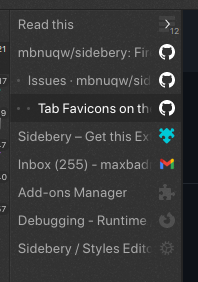
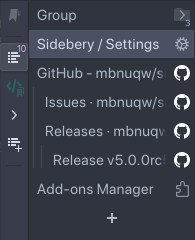
Upd wiki

diff --git a/docs/wiki/Sidebery-Styles-Snippets.md b/docs/wiki/Sidebery-Styles-Snippets.md
@@ -1,7 +1,4 @@
-# 🚧 Work In Progress 🚧
-
-
-# Sidebery's custom css snippets
+## General Info
 
 Styles editor can be found in:  
 `Sidebery settings` > `Styles editor` (in the navigation sidebar)  
@@ -18,8 +15,9 @@ To get currently available css-selectors use debugger:
     - Select "/group/group.html" for group page frame
   - Browse "Inspector" tab
 
+<br>
 
-### Tab Favicons on the Right
+## Tab Favicons on the Right
 
 ![Tabs favicons on the right](./assets/tabs-favs-right.png)
 
@@ -39,8 +37,9 @@ To get currently available css-selectors use debugger:
 }
 ```
 
+<br>
 
-### Tabs multiline titles
+## Tabs multiline titles
 
 ![Tabs multiline titles](./assets/tabs-multiline-titles.png)
 
@@ -50,7 +49,7 @@ To get currently available css-selectors use debugger:
 #root {
   --tabs-height: 36px !important;
   --tabs-title-padding: 8px;
-  --tabs-font-size: 12px;
+  --tabs-font-size: .8rem;
   --tabs-title-lines: 2;
 }
 
@@ -67,8 +66,9 @@ To get currently available css-selectors use debugger:
 }
 ```
 
+<br>
 
-### Vertical panel labels
+## Vertical panel labels
 
 ![Vertical panel labels](./assets/vert-nav-labels.png)
 
@@ -78,60 +78,59 @@ To get currently available css-selectors use debugger:
 
 ```css
 #root {
-  --nav-btn-width: 22px;
-  --name-font-size: 12px;
-  --count-font-size: 10px;
+  --nav-btn-width: 24px;
+  --nav-btn-height: 24px;
+  --name-font-size: .8rem;
+  --count-font-size: .65rem;
 }
 
-.NavigationBar .panel-btn {
+.NavigationBar .main-items .nav-item[data-class="panel"] {
   display: flex;
   flex-direction: column-reverse;
   padding: 6px 0;
   height: auto;
 }
 
-.NavigationBar .panels-box .panel-btn[data-type="add"] {
-  height: var(--nav-btn-width);
+.NavigationBar .main-items .nav-item[data-class="panel"] .badge {
+	top: 1px;
+  left: auto;
+  right: 1px;
 }
 
-.NavigationBar .panels-box .panel-btn:not([data-type="add"]) > svg,
-.NavigationBar .panels-box .panel-btn > img {
-  display: none;
+.NavigationBar .main-items .nav-item[data-class="panel"] .icon,
+.NavigationBar .main-items .nav-item[data-class="panel"] .bookmarks-badge-icon {
+	display: none;
 }
 
-.NavigationBar .panel-btn .update-badge {
-  top: 1px;
-  left: 1px;
+.NavigationBar .main-items .nav-item .bookmarks-badge-icon {
+	top: auto;
+	left: auto;
+	bottom: 3px;
+	right: 1px;
 }
 
-.NavigationBar .panel-btn .ok-badge,
-.NavigationBar .panel-btn .err-badge,
-.NavigationBar .panel-btn .progress-spinner {
-  display: none;
-}
-
-.NavigationBar .panel-btn .len {
+.NavigationBar .main-items .nav-item .len {
   position: relative;
   font-size: var(--count-font-size);
   writing-mode: sideways-lr;
   text-orientation: mixed;
   background-color: transparent;
   padding: 0;
-  margin: 0 2px 0 0;
+  margin: 2px 2px 1px 0;
   top: 0;
   right: 0;
-  color: var(--container-fg, var(--nav-btn-fg));
+	color: var(--container-fg, var(--nav-btn-fg));
 }
-.NavigationBar .panel-btn .len:before {
+.NavigationBar .main-items .nav-item .len:before {
   content: ": ";
   font-size: var(--name-font-size);
 }
 
-.NavigationBar .panel-btn .name {
+.NavigationBar .main-items .nav-item[data-class="panel"] .name-box {
   position: relative;
   display: block;
   padding: 0;
-  margin: 0 2px 0 0;
+  margin: 0 2px 0px 0;
   font-size: var(--name-font-size);
   color: var(--container-fg, var(--nav-btn-fg));
   writing-mode: sideways-lr;

diff --git a/docs/wiki/Firefox-Styles-Snippets-(via-userChrome.css).md b/docs/wiki/Firefox-Styles-Snippets-(via-userChrome.css).md
@@ -1,7 +1,11 @@
-# 🚧 Work In Progress 🚧
-
-
 # Firefox Styles Snippets (via userChrome.css)
+
+> ## Warning
+> At least basic knowledge of CSS is required. The following snippets may stop working with some next Firefox update and are provided just as examples of customization.
+>
+> 
+
+<br>
 
 > Note: Starting with Firefox 69 you have to enable toolkit.legacyUserProfileCustomizations.stylesheets in about:config.
 
@@ -12,29 +16,39 @@ To find and inspect browser's selectors open [Browser Toolbox](https://developer
 
 ---
 
-### Completely hide tabs strip
+<br>
+
+### Completely hide native tabs strip
+
+Use https://github.com/MrOtherGuy/firefox-csshacks (https://mrotherguy.github.io/firefox-csshacks/):
+
+- [hide_tabs_toolbar](https://mrotherguy.github.io/firefox-csshacks/?file=hide_tabs_toolbar.css)
+- [hide_tabs_toolbar_osx](https://mrotherguy.github.io/firefox-csshacks/?file=hide_tabs_toolbar_osx.css)
+- [window_control_placeholder_support](https://mrotherguy.github.io/firefox-csshacks/?file=window_control_placeholder_support.css)
+
+<br>
+
+### Decrease size of the sidebar header
 
 ```css
-#TabsToolbar {
-  display: none;
-}
-```
-
-### Hide tabs strip only in fullscreen
-
-```css
-#TabsToolbar[inFullscreen="true"] {
-  display: none;
-}
-```
-
-### Hide sidebar top-menu
-
-```css
+/**
+ * Decrease size of the sidebar header
+ */
 #sidebar-header {
-  display: none;
+  font-size: 1.2em !important;
+  padding: 2px 6px 2px 3px !important;
+}
+#sidebar-header #sidebar-close {
+  padding: 3px !important;
+}
+#sidebar-header #sidebar-close .toolbarbutton-icon {
+  width: 14px !important;
+  height: 14px !important;
+  opacity: 0.6 !important;
 }
 ```
+
+<br>
 
 ### Dynamic native tabs
 
@@ -44,7 +58,7 @@ To find and inspect browser's selectors open [Browser Toolbox](https://developer
 `Sidebery settings` > `Help` > `Preface value`  
 note: in this example: XXX  
 note: value can be an ["empty" unicode sign](https://unicode-explorer.com/c/200B)  
-- Set custom css:
+- Example css:
 ```css
 #main-window #titlebar {
   overflow: hidden;
@@ -59,6 +73,8 @@ note: value can be an ["empty" unicode sign](https://unicode-explorer.com/c/200B
 /* Hidden state: Fix z-index of active pinned tabs */
 #main-window[titlepreface*="XXX"] #tabbrowser-tabs { z-index: 0 !important; }
 ```
+
+<br>
 
 ### Native gnome look (by [@Fletcher-Alderton](https://github.com/Fletcher-Alderton))
 

diff --git a/docs/wiki/Home.md b/docs/wiki/Home.md
@@ -1,4 +1,10 @@
 ## Contents:
-- [User guide](https://github.com/mbnuqw/sidebery/wiki/User-guide)
 - [Firefox Styles Snippets (via userChrome.css)](https://github.com/mbnuqw/sidebery/wiki/Firefox-Styles-Snippets-(via-userChrome.css))
+  - [Completely hide native tabs strip](https://github.com/mbnuqw/sidebery/wiki/Firefox-Styles-Snippets-(via-userChrome.css)#completely-hide-native-tabs-strip)
+  - [Decrease size of the sidebar header](https://github.com/mbnuqw/sidebery/wiki/Firefox-Styles-Snippets-(via-userChrome.css)#decrease-size-of-the-sidebar-header)
+  - [Dynamic native tabs](https://github.com/mbnuqw/sidebery/wiki/Firefox-Styles-Snippets-(via-userChrome.css)#dynamic-native-tabs)
+  - [Native gnome look (by @Fletcher-Alderton)](https://github.com/mbnuqw/sidebery/wiki/Firefox-Styles-Snippets-(via-userChrome.css)#native-gnome-look-by-fletcher-alderton)
 - [Sidebery Styles Snippets](https://github.com/mbnuqw/sidebery/wiki/Sidebery-Styles-Snippets)
+  - [Tab Favicons on the Right](https://github.com/mbnuqw/sidebery/wiki/Sidebery-Styles-Snippets#tab-favicons-on-the-right)
+  - [Tabs multiline titles](https://github.com/mbnuqw/sidebery/wiki/Sidebery-Styles-Snippets#tabs-multiline-titles)
+  - [Vertical panel labels](https://github.com/mbnuqw/sidebery/wiki/Sidebery-Styles-Snippets#vertical-panel-labels)
